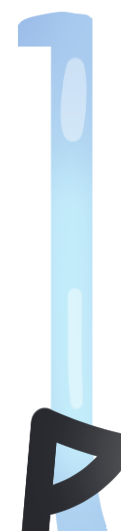
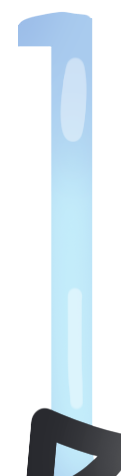
scene A1 set up with art assets
added background and another platform for the vial and added art assets to all build items in the level

diff --git a/GAME211_StudentTemplate/Scene1.cpp b/GAME211_StudentTemplate/Scene1.cpp
@@ -6,14 +6,16 @@
 Scene1::Scene1(SDL_Window* sdlWindow_, GameManager* game_)
 	:
 	//init the build
+	Background(0.0f, 15.0f, 30.0f, 15.0f, Vec4(255, 255, 255, 255), "bookcase/book_bg.png"),
 	platform1(0.0f, 2.0f, 30.0f, 2.5f, Vec4(255, 255, 255, 255), "bookcase/book_h1.png"), //floor 
-	platform2(4.5f, 10.0f, 6.0f, 10.0f, Vec4(255, 255, 255, 255)),
-	platform3(8.0f, 4.0f, 10.0f, 4.0f, Vec4(255, 255, 255, 255)),
-	platform4(0.0f, 15.0f, 25.0f, 0.5f, Vec4(255, 255, 255, 255)),
+	platform2(4.5f, 10.0f, 7.5f, 8.25f, Vec4(255, 255, 255, 255), "bookcase/book_ngVial_stand.png"),
+	platform3(12.0f, 4.5f, 7.5f, 3.0f, Vec4(255, 255, 255, 255), "bookcase/book_ngVial.png"),
+	platform4(0.0f, 15.5f, 25.0f, 1.5f, Vec4(255, 255, 255, 255), "bookcase/book_h1.png"),
+	platform5(0.5f, 2.75f, 4.25f, 2.0f, Vec4(255, 255, 255, 255), "bookcase/vial_Bottom.png"),
 	triggerEvent(25.0f, 17.0f, 1.0f, 18.0f, Vec4(255,0, 255, 255)),
-	wall1(3.5f, 10.0f, 1.5f, 9.0f, Vec4(255, 255, 255, 255)),
-	wall2(0.0f, 15.0f, 0.5f, 20.0f, Vec4(255, 255, 255, 255)),
-	wall3(0.0f, 10.0f, 1.5f, 9.0f, Vec4(255, 255, 255, 255)),
+	wall1(3.6f, 9.5f, 1.25f, 6.75f, Vec4(255, 255, 255, 255), "bookcase/vial_RightSide.png"),
+	wall2(-0.75f, 15.0f, 1.5f, 20.0f, Vec4(255, 255, 255, 255), "bookcase/book_v7.png"),
+	wall3(0.5f, 9.5f, 1.25f, 6.75f, Vec4(255, 255, 255, 255), "bookcase/vial_LeftSide.png"),
 	quest(SDL_GetRenderer(sdlWindow_)),
 	jumpText(SDL_GetRenderer(sdlWindow_), sdlWindow_),
 	movementText(SDL_GetRenderer(sdlWindow_), sdlWindow_)
@@ -35,7 +37,6 @@ Scene1::Scene1(SDL_Window* sdlWindow_, GameManager* game_)
 	if (!movementText.LoadImages("movement.png", "left_movement.png", "right_movement.png")) {
 		std::cerr << "Failed to load jump images" << std::endl;
 	}
-
 	// Set Quests
 	quest.AddQuest("Quest 1: Escape the Test Tube");
 	quest.AddQuest("Quest 2: Find a Way Out of the Experimentation Room");
@@ -73,7 +74,15 @@ bool Scene1::OnCreate() {
 
 
 	//Load Textures
+	Background.LoadTexture(renderer);
 	platform1.LoadTexture(renderer);
+	platform2.LoadTexture(renderer);
+	platform3.LoadTexture(renderer);
+	platform4.LoadTexture(renderer);
+	platform5.LoadTexture(renderer);
+	wall1.LoadTexture(renderer);
+	wall2.LoadTexture(renderer);
+	wall3.LoadTexture(renderer);
 
 	if (game->GetSceneManager().GetLastScene() == DefineScenes::A2) {
 		
@@ -94,6 +103,14 @@ void Scene1::OnDestroy() {
 
 	//Destroy Texture
 	platform1.DestroyTexture();
+	platform2.DestroyTexture();
+	platform3.DestroyTexture();
+	platform4.DestroyTexture();
+	platform5.DestroyTexture();
+	wall1.DestroyTexture();
+	wall2.DestroyTexture();
+	wall3.DestroyTexture();
+	Background.DestroyTexture();
 }
 
 void Scene1::Update(const float deltaTime) {
@@ -111,6 +128,7 @@ void Scene1::Update(const float deltaTime) {
 		platform2.getPlatform(),
 		platform3.getPlatform(),
 		platform4.getPlatform(),
+		platform5.getPlatform(),
 		wall1.getPlatform(),
 		wall2.getPlatform(),
 		wall3.getPlatform()
@@ -158,13 +176,15 @@ void Scene1::Update(const float deltaTime) {
 
 void Scene1::Render() {	
 	SDL_SetRenderDrawColor(renderer, 0, 0, 0, 0);
-	SDL_RenderClear(renderer);
+
 
 	// Render the platforms
+	Background.Render(renderer, game);
 	platform1.Render(renderer, game);
 	platform2.Render(renderer, game);
 	platform3.Render(renderer, game);
 	platform4.Render(renderer, game);
+	platform5.Render(renderer, game);
 	triggerEvent.Render(renderer, game);
 	wall1.Render(renderer, game);
 	wall2.Render(renderer, game);

diff --git a/GAME211_StudentTemplate/Scene1.h b/GAME211_StudentTemplate/Scene1.h
@@ -20,9 +20,11 @@ private:
 	Matrix4 projectionMatrix;	// set in OnCreate()
     Matrix4 inverseProjection;	// set in OnCreate()
 
-	Build platform1, platform2, platform3, platform4; //intializing platforms
+	Build platform1, platform2, platform3, platform4, platform5; //intializing platforms
 	Build wall1, wall2, wall3; //intializing walls
 	Build triggerEvent;
+
+	Build Background;
 
 	Quest quest;
 	JumpText jumpText;
